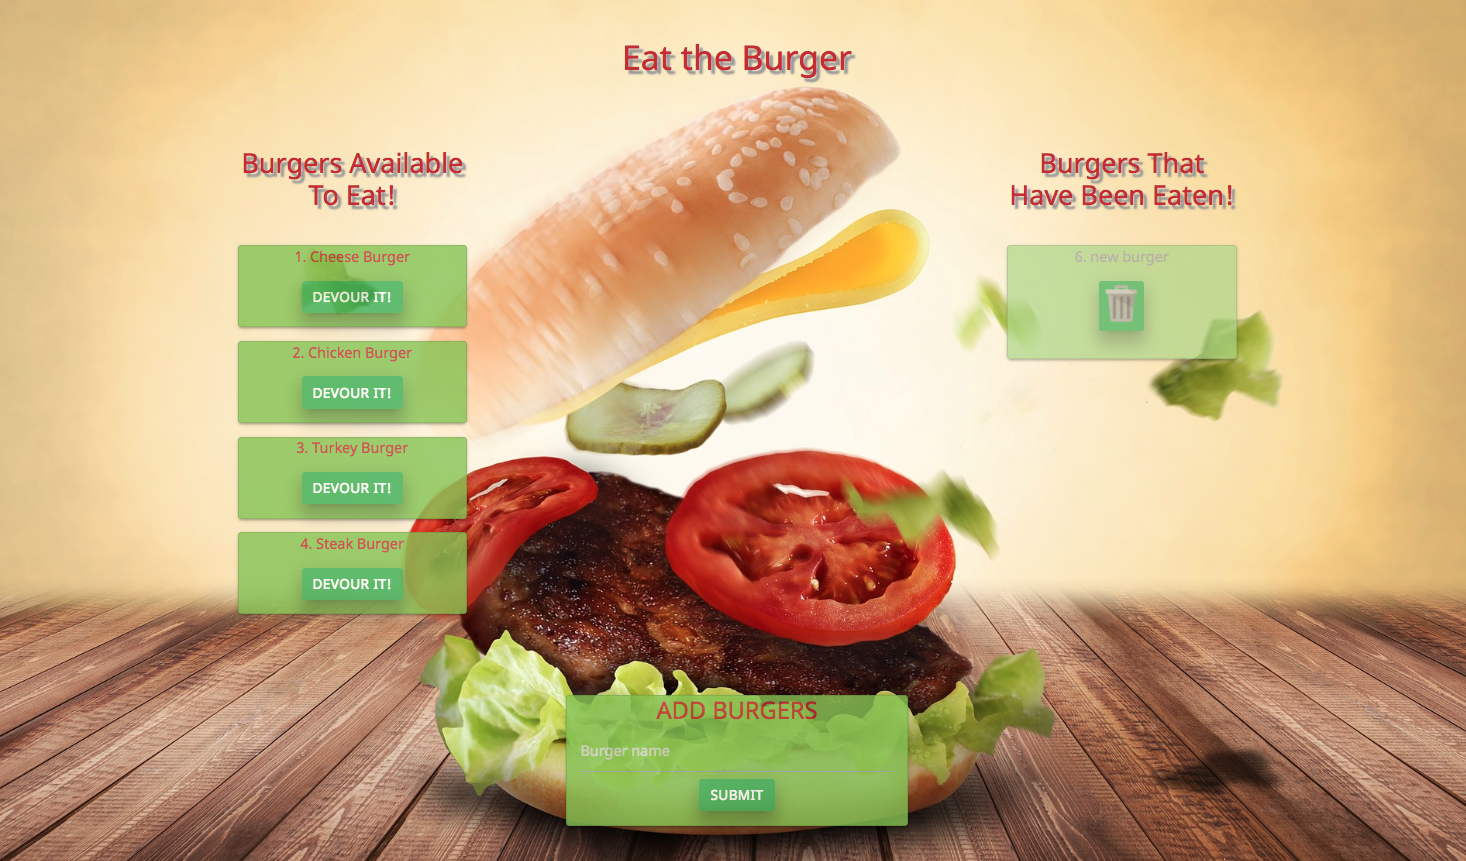
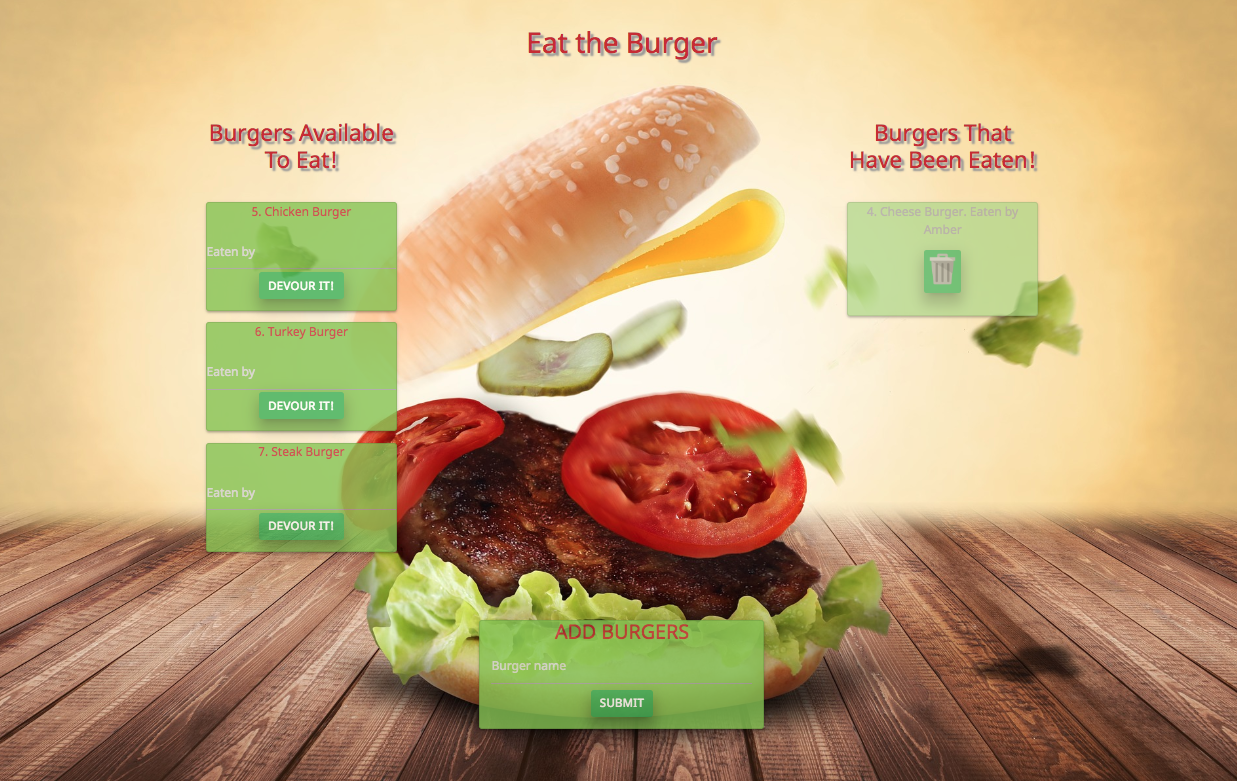
readme updated

diff --git a/README.md b/README.md
@@ -13,6 +13,8 @@ A burger logger with MySQL, Node, Express, Handlebars and a homemade ORM (yum!).
 * Each burger in the waiting area also has a button to eat it. When the user clicks it, the burger will move to the right side of the page.
 * Burgers on the right side of the page have a delete button to remove it from view.
 * The app stores every burger in a database, whether eaten or not.
+* Customer association added to the project. This involved creating one new Customer model and connecting it with a Burger model.
+* Validations added to Customer and Burger models.
 
 # Technologies Used: 
 
